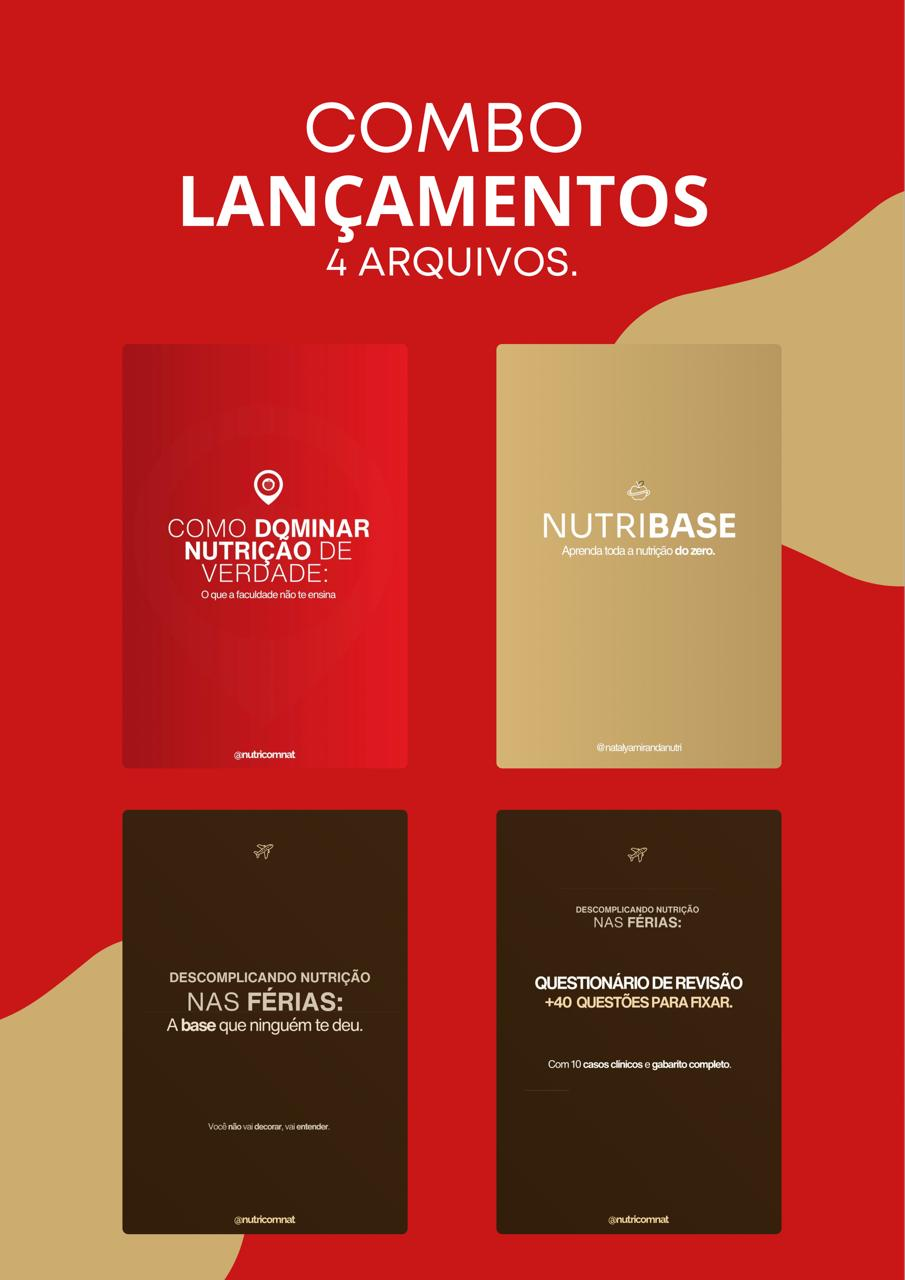
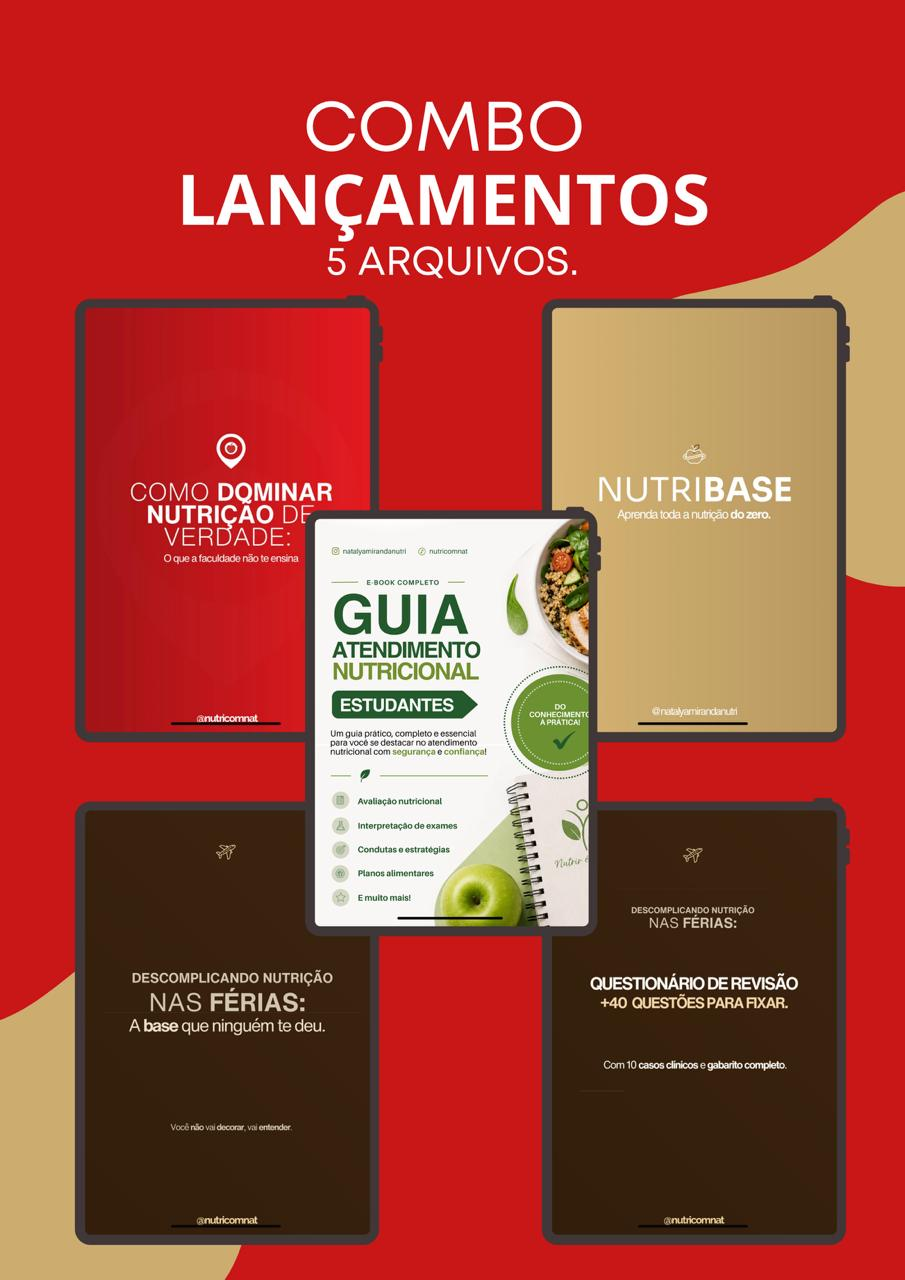
Add Guia: Atendimento Nutricional

diff --git a/script.js b/script.js
@@ -3,7 +3,7 @@
 let selectedResumos = [];
 let resumosData = [];
 
-console.log("NutriComNat - V.20260225.1") // Version
+console.log("NutriComNat - V.20260505.1") // Version
 
 fetch("src/data/data.json")
   .then(response => response.json())
@@ -112,7 +112,7 @@ function finalizarPedido() {
     produtos += `- *${resumo.title}* - R$ ${resumo.price.toFixed(2)}`;
     produtos += `%0A`;
     total += resumo.price;
-    
+
   });
 
   console.log("Start save to Google Sheets");
@@ -128,13 +128,13 @@ function finalizarPedido() {
       'Content-Type': 'application/json'
     }
   })
-  .then(response => response.text())  // ou .json() se a API retorna JSON
-  .then(data => {
-    console.log("Resposta da API:", data);
-  })
-  .catch(error => {
-    console.error("Erro ao enviar requisição:", error);
-  });
+    .then(response => response.text())  // ou .json() se a API retorna JSON
+    .then(data => {
+      console.log("Resposta da API:", data);
+    })
+    .catch(error => {
+      console.error("Erro ao enviar requisição:", error);
+    });
 
   console.log("End save to Google Sheets");
 
@@ -161,7 +161,7 @@ function finalizarPedido() {
   mensagem += `*Instagram:* instagram.com/natalyamirandanutri`;
   mensagem += `%0A`;
   mensagem += `*TikTok:* tiktok.com/@nutricomnat`;
-  
+
   const numero = "5581995101122";
   const url = `https://api.whatsapp.com/send?phone=${numero}&text=${mensagem}`;
   console.log(mensagem)
@@ -336,7 +336,7 @@ function imgCarrossel() {
     btn.setAttribute("data-bs-slide-to", index);
     btn.className = index === 0 ? "active" : "";
     btn.ariaCurrent = index === 0 ? "true" : "false";
-    btn.ariaLabel = `Slide ${index+1}`;
+    btn.ariaLabel = `Slide ${index + 1}`;
     indicators.appendChild(btn);
 
     // --- Slides ---

diff --git a/index.html b/index.html
@@ -227,9 +227,9 @@
       <button class="btn btn-light" data-bs-toggle="modal" data-bs-target="#adminModal">
         Acesso ADMIN
       </button>
-      <p>V.20260225.1</p>
+      <p>V.20260505.1</p>
     </div>
-
+<!--  -->
     <script src="admin-modal.js"></script>
     <script src="script.js"></script>
     <script crossorigin="anonymous" integrity="sha384-IQsoLXl5PILFhosVNubq5LC7Qb9DXgDA9i+tQ8Zj3iwWAwPtgFTxbJ8NT4GN1R8p"